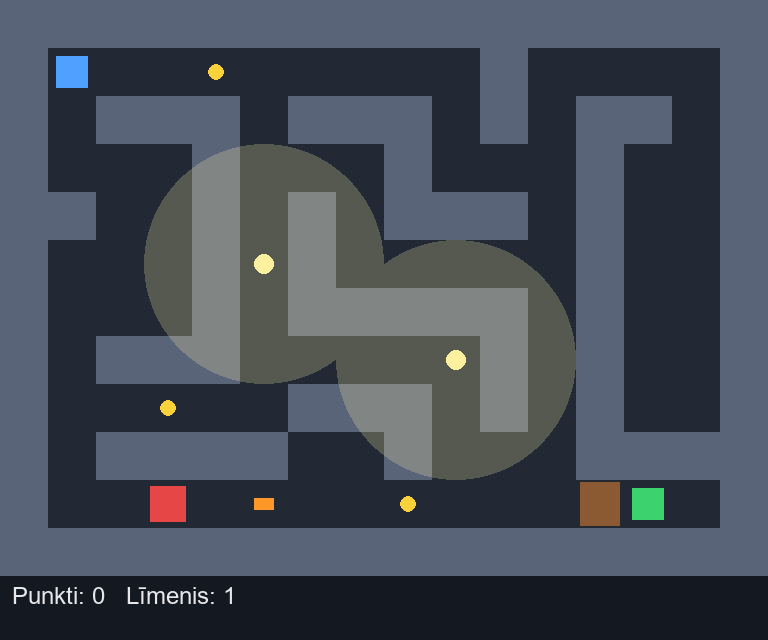
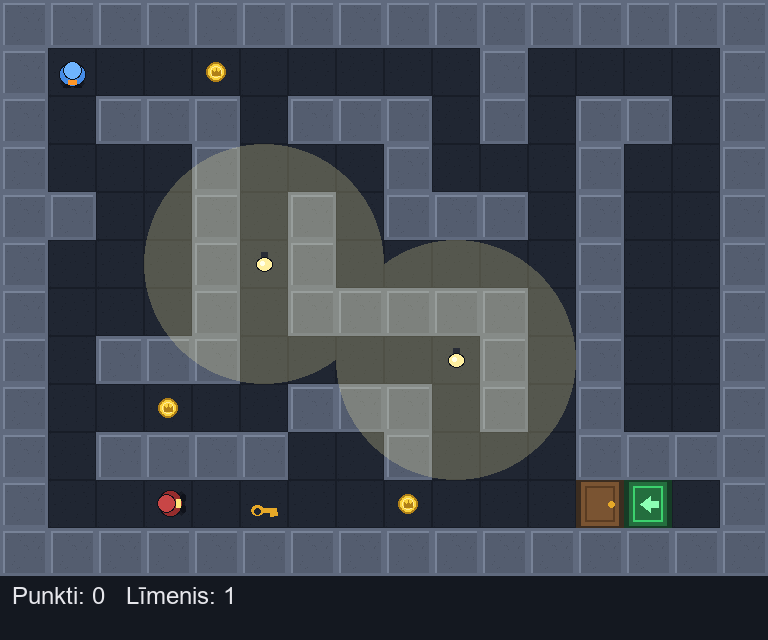
Pievienoju tekstūras: make_assets.py ģenerē sprites (grīda, sienas, kurjers, sargi, monēta, atslēga, durvis, izeja, lampas); personāži pagriežas kustības virzienā

diff --git a/client/main.py b/client/main.py
@@ -8,6 +8,7 @@ Vadība:     WASD/bultiņas — kustēties, Space — izslēgt lampu,
             E — paņemt atslēgu/atvērt durvis, P — pauze, Esc — izvēlne.
 """
 
+import os
 import sys
 
 import pygame
@@ -43,6 +44,40 @@ SCREEN_GAME_OVER = "game_over"
 SCREEN_WON = "won"
 
 
+def load_sprites() -> dict[str, pygame.Surface | None]:
+    """Ielādē tekstūras no assets/ mapes.
+
+    Ja kādas bildes nav (piem., aizmirsa palaist make_assets.py),
+    spēle nestrādā ar kļūdu — tā vietā zīmē parastos kvadrātus.
+    """
+    sprites = {}
+    for name in ("floor", "wall", "player", "guard", "coin", "key",
+                 "door", "exit", "lamp_on", "lamp_off"):
+        path = os.path.join("assets", name + ".png")
+        if os.path.exists(path):
+            sprites[name] = pygame.image.load(path).convert_alpha()
+        else:
+            sprites[name] = None
+    return sprites
+
+
+def draw_sprite(window: pygame.Surface, sprite: pygame.Surface | None,
+                x: float, y: float, size: int,
+                fallback_color: tuple, angle: float = 0.0) -> None:
+    """Uzzīmē bildi vietā (x, y). Ja bildes nav — zīmē kvadrātu.
+
+    angle — par cik grādiem pagriezt (0 = skatās uz leju, kā uzzīmēts).
+    """
+    if sprite is None:
+        pygame.draw.rect(window, fallback_color, (x, y, size, size))
+        return
+    if angle != 0.0:
+        sprite = pygame.transform.rotate(sprite, angle)
+    # Rotācija maina bildes izmēru, tāpēc centrējam ap vēlamo punktu
+    rect = sprite.get_rect(center=(x + size / 2, y + size / 2))
+    window.blit(sprite, rect)
+
+
 def main() -> None:
     """Spēles galvenā funkcija: atver logu un griež spēles ciklu."""
     pygame.init()
@@ -55,8 +90,10 @@ def main() -> None:
     clock = pygame.time.Clock()
     font = pygame.font.SysFont("arial", 24)
     big_font = pygame.font.SysFont("arial", 48, bold=True)
+    sprites = load_sprites()
 
     current_screen = SCREEN_MENU
+    player_facing = (0, 1)  # kurp spēlētājs skatās (sākumā — uz leju)
 
     while True:
         # dt = cik sekundes pagāja kopš iepriekšējā kadra (lai ātrums
@@ -78,6 +115,8 @@ def main() -> None:
                    - int(keys[pygame.K_a] or keys[pygame.K_LEFT])
             move_y = int(keys[pygame.K_s] or keys[pygame.K_DOWN]) \
                    - int(keys[pygame.K_w] or keys[pygame.K_UP])
+            if move_x != 0 or move_y != 0:
+                player_facing = (move_x, move_y)  # atceramies pēdējo virzienu
             # Space un E apstrādājam šeit, lai viens nospiešanas = viena darbība
             state.update(dt, move_x, move_y, False, False)
             if state.status == STATUS_GAME_OVER:
@@ -90,7 +129,7 @@ def main() -> None:
         if current_screen == SCREEN_MENU:
             draw_menu(window, font, big_font)
         else:
-            draw_world(window, state)
+            draw_world(window, state, sprites, player_facing)
             draw_hud(window, state, font)
             if current_screen == SCREEN_PAUSED:
                 draw_center_text(window, big_font, font, "PAUZE",
@@ -143,14 +182,24 @@ def handle_key(key: int, current_screen: str, state: GameState) -> str:
 # --- ZĪMĒŠANAS FUNKCIJAS (katra zīmē vienu lietu) ---
 
 
-def draw_world(window: pygame.Surface, state: GameState) -> None:
+# Virziens (x, y) -> rotācijas leņķis bildēm (sprites zīmēti "skatās uz leju")
+FACING_ANGLES = {(0, 1): 0, (1, 0): 90, (0, -1): 180, (-1, 0): 270}
+
+
+def draw_world(window: pygame.Surface, state: GameState,
+               sprites: dict[str, pygame.Surface | None],
+               player_facing: tuple[int, int]) -> None:
     """Uzzīmē visu līmeni: grīdu, sienas, lampas, monētas, spēlētāju, sargus."""
     level = state.level
     t = gs.TILE_SIZE
 
-    # Sienas
-    for col, row in level.walls:
-        pygame.draw.rect(window, COLOR_WALL, (col * t, row * t, t, t))
+    # Grīda (visi lauciņi, kas nav sienas) un sienas
+    for row in range(level.height):
+        for col in range(level.width):
+            if (col, row) in level.walls:
+                draw_sprite(window, sprites["wall"], col * t, row * t, t, COLOR_WALL)
+            else:
+                draw_sprite(window, sprites["floor"], col * t, row * t, t, COLOR_FLOOR)
 
     # Gaismas laukumi ap dedzinošām lampām (caurspīdīgi dzelteni apļi)
     light_layer = pygame.Surface((window.get_width(), window.get_height()), pygame.SRCALPHA)
@@ -162,28 +211,35 @@ def draw_world(window: pygame.Surface, state: GameState) -> None:
 
     # Izeja, monētas, atslēga, durvis
     ex, ey = level.exit_pos
-    pygame.draw.rect(window, COLOR_EXIT, (ex * t + 8, ey * t + 8, t - 16, t - 16))
+    draw_sprite(window, sprites["exit"], ex * t, ey * t, t, COLOR_EXIT)
     for col, row in level.coins:
-        pygame.draw.circle(window, COLOR_COIN, (col * t + t // 2, row * t + t // 2), 8)
+        draw_sprite(window, sprites["coin"],
+                    col * t + (t - 20) // 2, row * t + (t - 20) // 2, 20, COLOR_COIN)
     if level.key_pos is not None:
         kx, ky = level.key_pos
-        pygame.draw.rect(window, COLOR_KEY, (kx * t + 14, ky * t + 18, t - 28, t - 36))
+        draw_sprite(window, sprites["key"], kx * t + 10, ky * t + 16, 28, COLOR_KEY)
     if level.door_pos is not None and not level.door_open:
         dx, dy = level.door_pos
-        pygame.draw.rect(window, COLOR_DOOR, (dx * t + 4, dy * t + 2, t - 8, t - 4))
+        draw_sprite(window, sprites["door"], dx * t, dy * t, t, COLOR_DOOR)
 
-    # Lampas (apaļš gaismeklis; pelēks, ja izslēgts)
+    # Lampas (deg = dzeltena, izslēgta = pelēka)
     for (col, row), off_timer in level.lamps.items():
+        lamp = sprites["lamp_on"] if off_timer <= 0 else sprites["lamp_off"]
         color = COLOR_LAMP_ON if off_timer <= 0 else COLOR_LAMP_OFF
-        pygame.draw.circle(window, color, (col * t + t // 2, row * t + t // 2), 10)
+        draw_sprite(window, lamp, col * t + 12, row * t + 12, 24, color)
 
-    # Sargi
+    # Sargi (pagriežas kustības virzienā)
     for guard in level.guards:
-        pygame.draw.rect(window, COLOR_GUARD, (guard.x, guard.y, GUARD_SIZE, GUARD_SIZE))
+        if guard.horizontal:
+            guard_dir = (guard.direction, 0)
+        else:
+            guard_dir = (0, guard.direction)
+        draw_sprite(window, sprites["guard"], guard.x, guard.y, GUARD_SIZE,
+                    COLOR_GUARD, FACING_ANGLES[guard_dir])
 
-    # Spēlētājs (kurjers)
-    pygame.draw.rect(window, COLOR_PLAYER,
-                     (state.player_x, state.player_y, gs.PLAYER_SIZE, gs.PLAYER_SIZE))
+    # Spēlētājs (kurjers, pagriežas kustības virzienā)
+    draw_sprite(window, sprites["player"], state.player_x, state.player_y,
+                gs.PLAYER_SIZE, COLOR_PLAYER, FACING_ANGLES[player_facing])
 
 
 def draw_hud(window: pygame.Surface, state: GameState, font: pygame.font.Font) -> None:

diff --git a/make_assets.py b/make_assets.py
@@ -1,0 +1,163 @@
+"""Tekstūru (sprite) ģenerators — uzzīmē visas spēles bildes assets/ mapē.
+
+Palaišana:  python make_assets.py
+Bildes zīmē ar Pillow bibliotēku (tīra Python, bez Photoshop).
+Visas krāsas sakrīt ar spēles stilu (skat. client/main.py).
+
+Personāži zīmēti "skatā no augšas" (top-down):
+  - aplis = galva/cepure, ovāls ap to = ķermenis/pleci
+  - personāži "skatās uz leju" — spēlē tos pagriež vajadzīgajā virzienā
+    ar pygame.transform.rotate()
+"""
+
+import os
+import random
+
+from PIL import Image, ImageDraw
+
+os.makedirs("assets", exist_ok=True)
+random.seed(42)  # vienāds "juceklis" katrā palaišanā — bildes vienmēr vienādas
+
+TILE = 48  # flīzes izmērs (tāds pats kā game/settings.py TILE_SIZE)
+
+
+def save(img: Image.Image, name: str) -> None:
+    """Saglabā bildi assets/ mapē un izvada ziņu."""
+    img.save(f"assets/{name}.png")
+    print(f"assets/{name}.png")
+
+
+# --- GRĪDA UN SIENAS (flīzes 48x48) ---
+
+def make_floor() -> Image.Image:
+    """Tumša grīdas flīze ar smalku troksni un šuvēm."""
+    img = Image.new("RGB", (TILE, TILE), (32, 38, 50))
+    d = ImageDraw.Draw(img)
+    # Troksnis — nejauši tumšāki punkti, lai grīda nav "plakana"
+    for _ in range(40):
+        x, y = random.randrange(TILE), random.randrange(TILE)
+        d.point((x, y), fill=(26, 31, 42))
+    # Šuves ap malām (flīžu režģa iespaids)
+    d.rectangle([0, 0, TILE - 1, TILE - 1], outline=(24, 29, 39))
+    return img
+
+
+def make_wall() -> Image.Image:
+    """Gaiša sienas flīze — metāla panels ar apmaļi."""
+    img = Image.new("RGB", (TILE, TILE), (96, 106, 126))
+    d = ImageDraw.Draw(img)
+    d.rectangle([3, 3, TILE - 4, TILE - 4], fill=(84, 93, 111))   # iekšējais panels
+    d.line([3, 3, TILE - 4, 3], fill=(120, 131, 152), width=2)    # gaisma no augšas
+    d.line([3, 3, 3, TILE - 4], fill=(120, 131, 152), width=2)
+    for _ in range(25):  # neliels nodilums
+        x, y = random.randrange(4, TILE - 4), random.randrange(4, TILE - 4)
+        d.point((x, y), fill=(74, 82, 98))
+    return img
+
+
+# --- PERSONĀŽI (caurspīdīgs fons, skats no augšas, seja uz leju) ---
+
+def make_person(size: int, body: tuple, head: tuple, accent: tuple | None) -> Image.Image:
+    """Uzzīmē top-down personāžu: ēna, ķermenis, galva, pēdas.
+
+    accent — maza detaļa apakšā (kurjerim oranžs plecu siksniņš,
+    sargam dzeltena kabatas lukturīša uzlāde).
+    """
+    img = Image.new("RGBA", (size, size), (0, 0, 0, 0))
+    d = ImageDraw.Draw(img)
+    c = size // 2  # centrs
+
+    # Ēna zem personāža
+    d.ellipse([c - 12, size - 8, c + 12, size - 2], fill=(0, 0, 0, 70))
+    # Ķermenis (pleci) ar tumšu kontūru
+    d.ellipse([c - 13, c - 10, c + 13, c + 14], fill=(15, 18, 26, 255))
+    d.ellipse([c - 12, c - 9, c + 12, c + 13], fill=body + (255,))
+    # Pēdas apakšā (rāda, kurp personāžs skatās)
+    d.ellipse([c - 9, c + 12, c - 2, c + 18], fill=(15, 18, 26, 255))
+    d.ellipse([c + 2, c + 12, c + 9, c + 18], fill=(15, 18, 26, 255))
+    # Galva (kapuce/cepure) ar kontūru
+    d.ellipse([c - 9, c - 11, c + 9, c + 7], fill=(15, 18, 26, 255))
+    d.ellipse([c - 8, c - 10, c + 8, c + 6], fill=head + (255,))
+    # Akcents
+    if accent:
+        d.rectangle([c - 4, c + 8, c + 4, c + 12], fill=accent + (255,))
+    return img
+
+
+# --- PRIEKŠMETI ---
+
+def make_coin() -> Image.Image:
+    """Zelta monēta ar kroni."""
+    s = 20
+    img = Image.new("RGBA", (s, s), (0, 0, 0, 0))
+    d = ImageDraw.Draw(img)
+    d.ellipse([0, 0, s - 1, s - 1], fill=(176, 128, 24, 255))     # tumša maliņa
+    d.ellipse([2, 2, s - 3, s - 3], fill=(250, 210, 60, 255))     # zelts
+    d.ellipse([4, 4, s - 5, s - 5], outline=(255, 236, 150, 255)) # spīdums
+    # Kroņiņš vidū
+    d.polygon([(6, 13), (6, 8), (9, 10), (10, 6), (11, 10), (14, 8), (14, 13)],
+              fill=(176, 128, 24, 255))
+    return img
+
+
+def make_key() -> Image.Image:
+    """Zelta atslēga (gulstiņus)."""
+    img = Image.new("RGBA", (28, 16), (0, 0, 0, 0))
+    d = ImageDraw.Draw(img)
+    d.ellipse([1, 3, 13, 13], fill=(230, 168, 40, 255))   # gredzens
+    d.ellipse([4, 6, 10, 12], fill=(0, 0, 0, 0))          # caurums gredzenā
+    d.rectangle([12, 6, 26, 10], fill=(230, 168, 40, 255))  # kāts
+    d.rectangle([20, 10, 23, 14], fill=(230, 168, 40, 255))  # zobi
+    d.rectangle([24, 10, 27, 13], fill=(230, 168, 40, 255))
+    return img
+
+
+def make_door() -> Image.Image:
+    """Brūnas metāla durvis ar rokturi."""
+    img = Image.new("RGB", (TILE, TILE), (60, 45, 32))      # rāmis
+    d = ImageDraw.Draw(img)
+    d.rectangle([5, 2, TILE - 6, TILE - 3], fill=(122, 84, 50))   # durvju loksne
+    d.rectangle([9, 6, TILE - 10, TILE - 7], outline=(90, 60, 34), width=2)
+    d.ellipse([TILE - 16, TILE // 2 - 3, TILE - 10, TILE // 2 + 3],
+              fill=(230, 168, 40))  # rokturis
+    return img
+
+
+def make_exit() -> Image.Image:
+    """Zaļa izejas durvju flīze ar bultiņu."""
+    img = Image.new("RGB", (TILE, TILE), (22, 60, 38))
+    d = ImageDraw.Draw(img)
+    d.rectangle([5, 2, TILE - 6, TILE - 3], fill=(36, 110, 62))
+    d.rectangle([9, 6, TILE - 10, TILE - 7], outline=(60, 210, 110), width=2)
+    # Bultiņa uz priekšu (pa labi)
+    d.polygon([(16, 24), (26, 16), (26, 21), (34, 21), (34, 27), (26, 27), (26, 32)],
+              fill=(140, 255, 180))
+    return img
+
+
+def make_lamp(on: bool) -> Image.Image:
+    """Sienas lampa: dzeltena (deg) vai pelēka (izslēgta)."""
+    s = 24
+    img = Image.new("RGBA", (s, s), (0, 0, 0, 0))
+    d = ImageDraw.Draw(img)
+    d.rectangle([s // 2 - 3, 0, s // 2 + 3, 6], fill=(40, 44, 54, 255))  # kronšteins
+    korpus = (255, 240, 160) if on else (90, 92, 100)
+    d.ellipse([4, 5, s - 4, s - 5], fill=(15, 18, 26, 255))
+    d.ellipse([5, 6, s - 5, s - 6], fill=korpus + (255,))
+    if on:  # spīduma punkts
+        d.ellipse([8, 9, 12, 13], fill=(255, 255, 230, 255))
+    return img
+
+
+if __name__ == "__main__":
+    save(make_floor(), "floor")
+    save(make_wall(), "wall")
+    save(make_person(32, (70, 140, 230), (110, 180, 255), (255, 150, 40)), "player")
+    save(make_person(36, (150, 45, 45), (200, 70, 70), (255, 230, 120)), "guard")
+    save(make_coin(), "coin")
+    save(make_key(), "key")
+    save(make_door(), "door")
+    save(make_exit(), "exit")
+    save(make_lamp(True), "lamp_on")
+    save(make_lamp(False), "lamp_off")
+    print("Visas tekstūras gatavas!")

diff --git a/render_levels.py b/render_levels.py
@@ -5,7 +5,7 @@ os.environ["SDL_VIDEODRIVER"] = "dummy"
 import pygame
 from game import settings as gs
 from game.game_state import GameState
-from client.main import draw_world, draw_hud
+from client.main import draw_world, draw_hud, load_sprites
 
 pygame.init()
 state = GameState()
@@ -16,8 +16,9 @@ for level_num in (1, 2, 3):
     w = state.level.width * gs.TILE_SIZE
     h = state.level.height * gs.TILE_SIZE + 64
     surface = pygame.display.set_mode((w, h))
+    sprites = load_sprites()
     surface.fill((34, 40, 52))
-    draw_world(surface, state)
+    draw_world(surface, state, sprites, (0, 1))
     draw_hud(surface, state, font)
     pygame.image.save(surface, f"level_{level_num}.png")
     print(f"level_{level_num}.png saglabāts")
